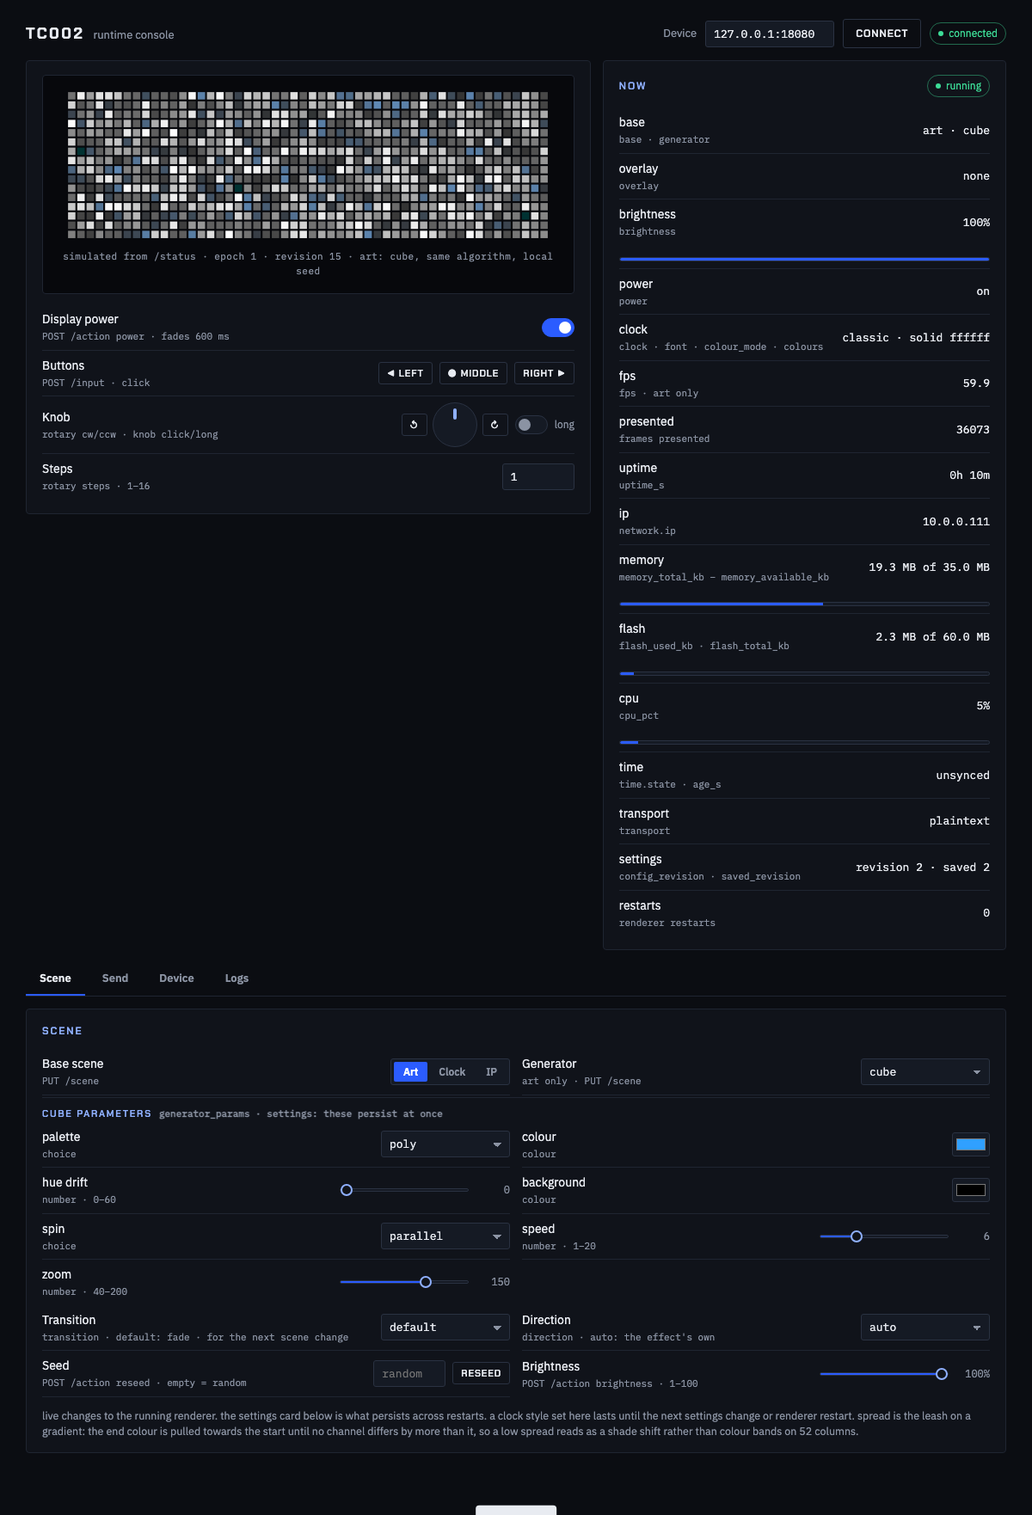
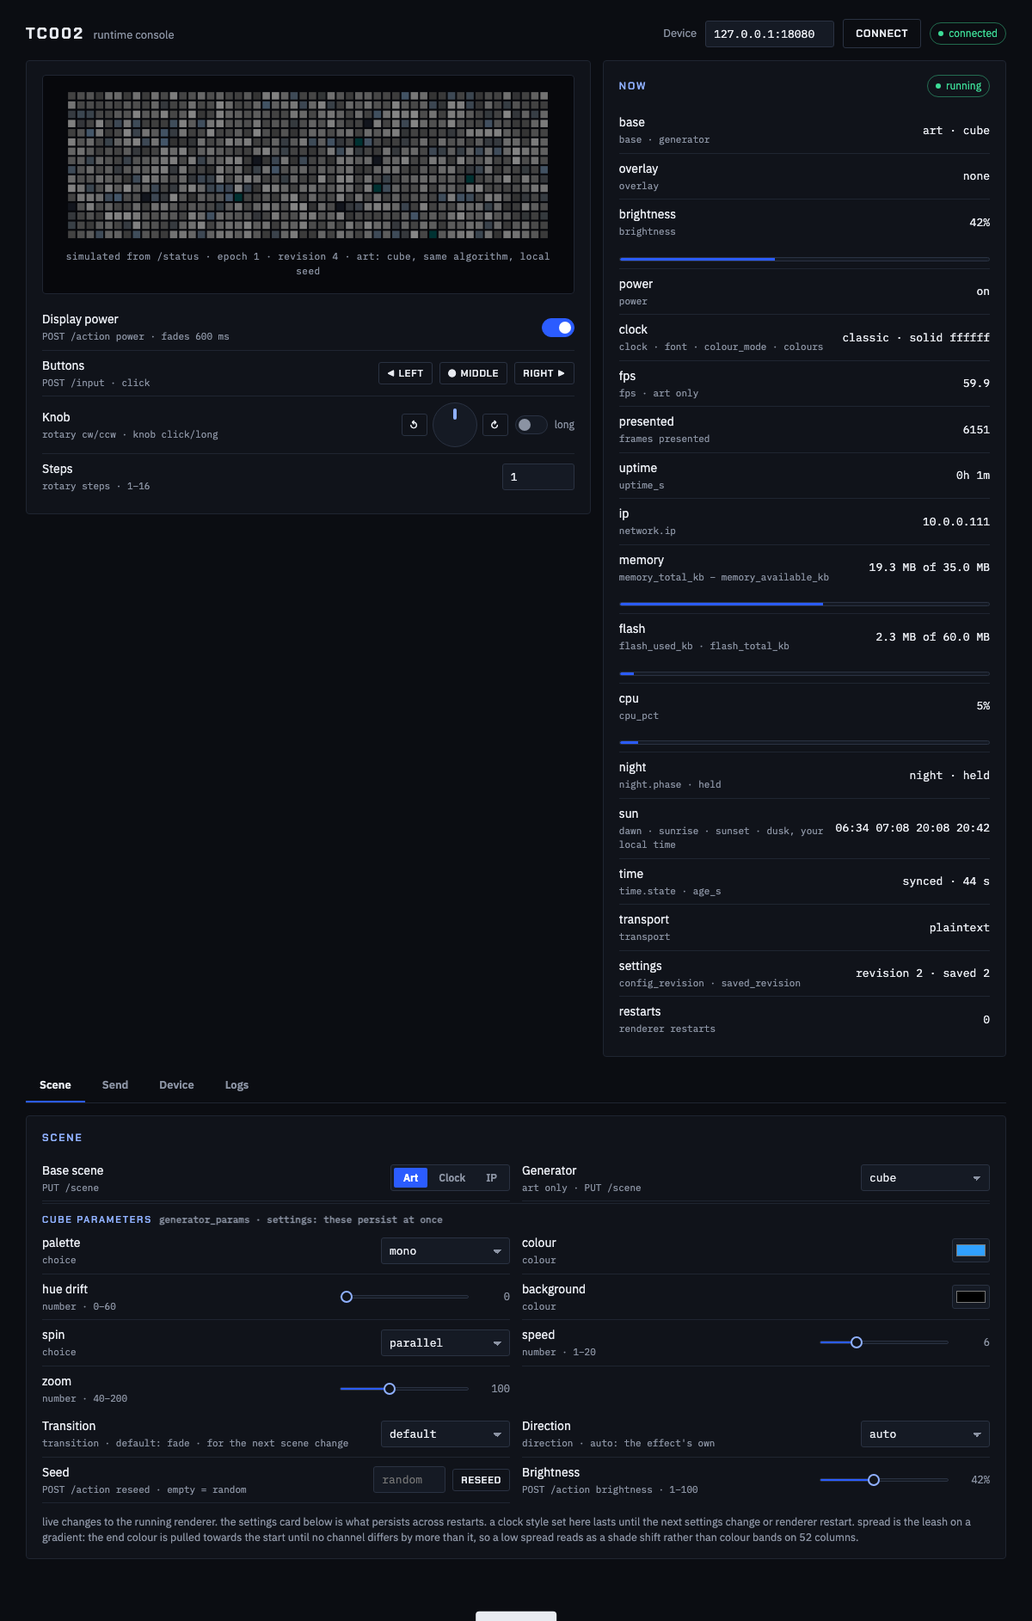
panel-v2: the night brightness schedule and where the device is
the runtime dims the panel in the evening and brightens it in the morning, following the sun where
the device actually is (RUNTIME.md, "the night brightness schedule"). the console shows both halves.

the settings gain the schedule (`night`, `night_brightness` 1–100, `night_lead_min` 0–120) and the
place: a latitude and longitude that pin it, a read-only line for the point they resolve to with
where it came from, and a button that drops the pin through `location_auto` so the timezone's own
reference city is used again. the two coordinates travel together or not at all, and a half-filled
pair is refused here rather than at the device. the timezone hint says a zone name is accepted now.

the readout gains two rows: `night` reads off, or the phase with `· held` when a hand-set brightness
is standing in the schedule's way, and `sun` reads today's four crossings. they are shown in the
browser's timezone, which the row says, because a device set to an iana zone gives the page no
offset to work from.

the mock computes the crossings with the same low-precision sunrise equation rather than faking
them, so the phase it reports moves with the clock and the place. tests: the config carries the
schedule and both locations, a patch refuses the seven ways it can be wrong, and the status reports
a phase, a held flag that a brightness command sets, and four crossings in order.

Claude-Session: https://claude.ai/code/session_0154EZ6adqhZyrJZmuD4WZcY

diff --git a/panel-v2/index.html b/panel-v2/index.html
@@ -179,6 +179,7 @@ input[type=file]{font:12px var(--body);color:var(--muted);max-width:220px}
 /* a full-width card has room for two columns of rows */
 .card.wide .rows{display:grid;grid-template-columns:repeat(2,minmax(0,1fr));gap:0 var(--gap)}
 .card.wide .rows.genparams{grid-column:1/-1}
+.card.wide .field.span2{grid-column:1/-1}
 .genparams .paramhead{grid-column:1/-1}
 .genparams{border-top:1px solid var(--line);margin-top:2px;padding-top:2px}
 .genparams .paramhead{display:flex;align-items:center;gap:8px;padding:9px 0 3px;color:var(--accent-text);
@@ -332,7 +333,14 @@ input[type=file]{font:12px var(--body);color:var(--muted);max-width:220px}
         <div class="field"><label for="cgrad">Gradient direction<span class="key">clock_gradient</span></label><select id="cgrad"></select></div>
         <div class="field"><label for="cdigits">Clock digits<span class="key">clock_digit · block and big faces have a body to style</span></label><select id="cdigits"></select></div>
         <div class="field"><label for="cspread">Clock spread<span class="key">clock_spread · 0–255, the gradient's leash</span></label><input type="number" id="cspread" min="0" max="255" step="15"></div>
-        <div class="field"><label for="ctz">Timezone<span class="key">timezone · posix rule, e.g. AEST-10AEDT,M10.1.0,M4.1.0/3</span></label><input type="text" id="ctz" placeholder="UTC0" spellcheck="false"></div>
+        <div class="field"><label for="ctz">Timezone<span class="key">timezone · a zone name (Europe/Amsterdam) or a posix rule (AEST-10AEDT,M10.1.0,M4.1.0/3)</span></label><input type="text" id="ctz" placeholder="UTC0" spellcheck="false"></div>
+        <div class="field"><label for="cnight">Night dimming<span class="key">night · follows the sun where the device is</span></label><input type="checkbox" class="sw" id="cnight"></div>
+        <div class="field"><label for="cnightb">Night brightness<span class="key">night_brightness · 1–100, the other end of the ramp</span></label><input type="number" id="cnightb" min="1" max="100"></div>
+        <div class="field"><label for="cnightl">Ramp lead<span class="key">night_lead_min · 0–120 minutes before sunset, and after sunrise</span></label><input type="number" id="cnightl" min="0" max="120"></div>
+        <div class="field"><label for="clat">Latitude<span class="key">latitude · −90–90, with a longitude or neither</span></label><input type="number" id="clat" min="-90" max="90" step="0.01" placeholder="auto"></div>
+        <div class="field"><label for="clon">Longitude<span class="key">longitude · −180–180</span></label><input type="number" id="clon" min="-180" max="180" step="0.01" placeholder="auto"></div>
+        <div class="field span2"><span class="lab">Location in use<span class="key">location · read-only, with where it came from</span></span>
+          <span class="inline"><span class="val" id="cloc">—</span><button class="btn ghost sm" id="clocauto">Use the timezone's</button></span></div>
         <div class="field"><label for="cntp">NTP server<span class="key">ntp_server · ipv4, null disables the sntp client</span></label><input type="text" id="cntp" placeholder="none"></div>
         <div class="field"><label for="cntpi">NTP interval<span class="key">ntp_interval_s</span></label>
           <select id="cntpi"><option value="300">300 s</option><option value="600">600 s</option></select></div>
@@ -497,6 +505,18 @@ const NOW_ROWS = [
   }],
   ['cpu', s => s.cpu_pct == null ? '—' : `${s.cpu_pct}%`, 'cpu_pct',
     s => (s.cpu_pct == null ? null : { metric: 'cpu', pct: s.cpu_pct, tone: pressure(s.cpu_pct) })],
+  ['night', s => {
+    const n = s.night;
+    if (!n) return '—';
+    if (!n.enabled) return 'off';
+    return `${n.phase || 'no place'}${n.held ? ' · held' : ''}`;
+  }, 'night.phase · held'],
+  ['sun', s => {
+    const t = s.night && s.night.today;
+    if (!t) return '—';
+    const at = v => (typeof v === 'number' ? new Date(v * 1000).toLocaleTimeString([], { hour: '2-digit', minute: '2-digit' }) : '—');
+    return `${at(t.dawn)} ${at(t.sunrise)} ${at(t.sunset)} ${at(t.dusk)}`;
+  }, 'dawn · sunrise · sunset · dusk, your local time'],
   ['time', s => {
     if (!s.time) return '—';
     const age = typeof s.time.age_s === 'number' ? ` · ${s.time.age_s} s` : '';
@@ -975,6 +995,19 @@ function showConfig(c) {
   $('cbright').value = c.brightness; $('cbase').value = c.base;
   fillSelect($('cgen'), SCENES ? SCENES.generators.map(g => g.name) : S.GENERATORS, c.generator);
   $('ctz').value = c.timezone; $('cntp').value = c.ntp.server || ''; $('cntpi').value = String(c.ntp.interval_s);
+  if (c.night) {
+    $('cnight').checked = !!c.night.enabled;
+    $('cnightb').value = c.night.brightness;
+    $('cnightl').value = c.night.lead_min;
+  }
+  $('clat').value = c.latitude == null ? '' : c.latitude;
+  $('clon').value = c.longitude == null ? '' : c.longitude;
+  // the point the two resolve to: the pin, or the timezone's own reference city
+  const loc = $('cloc');
+  loc.textContent = c.location
+    ? `${(+c.location.latitude).toFixed(2)}, ${(+c.location.longitude).toFixed(2)} · ${c.location.source}`
+    : 'nowhere: the schedule cannot run';
+  $('clocauto').disabled = !c.location || c.location.source !== 'set';
   $('cft').value = c.frame_timeout_ms; $('cmi').value = c.metrics_interval_s;
   $('cdisc').checked = !!c.discovery.enabled; $('cdp').value = c.discovery.prefix;
   const k = c.clock || S.DEFAULT_CLOCK_STYLE;   // a runtime without clock styles: show the defaults, patch nothing
@@ -996,6 +1029,14 @@ function showConfig(c) {
   if (SCENES) renderGenParams();
 }
 async function loadConfig() { showConfig(await call('GET', 'config')); }
+// dropping the pin hands the timezone's reference point back
+$('clocauto').addEventListener('click', async () => {
+  try {
+    showConfig(await call('PATCH', 'config', { location_auto: true }));
+    toast('location: back to the timezone\u2019s');
+    refreshStatus(true);
+  } catch (e) { toast(e.message, true); }
+});
 $('capply').addEventListener('click', async () => {
   if (!CONFIG) return;
   const patch = { expected_revision: CONFIG.revision };
@@ -1004,6 +1045,20 @@ $('capply').addEventListener('click', async () => {
   if ($('cgen').value !== CONFIG.generator) patch.generator = $('cgen').value;
   const tz = $('ctz').value.trim(); if (tz !== CONFIG.timezone) patch.timezone = tz;
   const ntp = $('cntp').value.trim(); if ((ntp || null) !== CONFIG.ntp.server) patch.ntp_server = ntp || null;
+  if (CONFIG.night) {
+    if ($('cnight').checked !== !!CONFIG.night.enabled) patch.night = $('cnight').checked;
+    const nb = +$('cnightb').value; if (nb !== CONFIG.night.brightness) patch.night_brightness = nb;
+    const nl = +$('cnightl').value; if (nl !== CONFIG.night.lead_min) patch.night_lead_min = nl;
+  }
+  // latitude and longitude travel together or not at all, as the device demands
+  const lat = $('clat').value.trim(), lon = $('clon').value.trim();
+  const latNow = CONFIG.latitude == null ? '' : String(CONFIG.latitude);
+  const lonNow = CONFIG.longitude == null ? '' : String(CONFIG.longitude);
+  if (lat !== latNow || lon !== lonNow) {
+    if (lat === '' && lon === '') patch.location_auto = true;
+    else if (lat === '' || lon === '') return toast('a latitude needs a longitude, and the other way round', true);
+    else { patch.latitude = +lat; patch.longitude = +lon; }
+  }
   const ntpi = +$('cntpi').value; if (ntpi !== CONFIG.ntp.interval_s) patch.ntp_interval_s = ntpi;
   const ft = +$('cft').value; if (ft !== CONFIG.frame_timeout_ms) patch.frame_timeout_ms = ft;
   const mi = +$('cmi').value; if (mi !== CONFIG.metrics_interval_s) patch.metrics_interval_s = mi;

diff --git a/panel-v2/mock-device.py b/panel-v2/mock-device.py
@@ -118,6 +118,43 @@ def load_or_create_tokens(path):
     return data[:32].hex(), data[32:].hex()
 
 
+# the timezone's reference point, as tzdata gives one to every iana zone; the mock knows one zone
+# and falls back to it, which is enough to exercise a location whose source is the timezone
+TZ_POINT = (52.37, 4.90)           # europe/amsterdam
+NIGHT_PHASES = ("day", "to_night", "night", "to_day")
+
+
+def solar_day(now, lat, lon):
+    """dawn, sunrise, sunset, dusk as epoch seconds for the day `now` falls in, from the same
+    low-precision sunrise equation the runtime uses (sys/solar.zig). close enough for a stand-in."""
+    import math
+    day = math.floor(now / 86400)
+    n = day - 10957 + 0.0008          # julian day 2451545.0 is epoch day 10957
+    j_star = n - lon / 360.0
+    m = math.radians((357.5291 + 0.98560028 * j_star) % 360)
+    c = 1.9148 * math.sin(m) + 0.02 * math.sin(2 * m) + 0.0003 * math.sin(3 * m)
+    lam = math.radians((math.degrees(m) + c + 180 + 102.9372) % 360)
+    j_transit = 2451545.0 + j_star + 0.0053 * math.sin(m) - 0.0069 * math.sin(2 * lam)
+    decl = math.asin(math.sin(lam) * math.sin(math.radians(23.4397)))
+
+    def crossing(zenith):
+        cos_w = ((math.cos(math.radians(zenith)) - math.sin(math.radians(lat)) * math.sin(decl))
+                 / (math.cos(math.radians(lat)) * math.cos(decl)))
+        if cos_w > 1 or cos_w < -1:
+            return None                # the sun never reaches that angle here today
+        w = math.degrees(math.acos(cos_w)) / 360.0
+        rise = (j_transit - w - 2440587.5) * 86400
+        set_ = (j_transit + w - 2440587.5) * 86400
+        return int(rise), int(set_)
+
+    day_pair = crossing(90.833)        # the sun's radius and refraction
+    civil_pair = crossing(96.0)
+    sunrise, sunset = day_pair if day_pair else (None, None)
+    dawn, dusk = civil_pair if civil_pair else (None, None)
+    sun_up = bool(sunrise and sunset and sunrise <= now < sunset)
+    return {"dawn": dawn, "sunrise": sunrise, "sunset": sunset, "dusk": dusk, "sun_up": sun_up}
+
+
 def parse_ipv4(s):
     parts = s.split(".")
     if len(parts) != 4 or not all(p.isdigit() and 0 < len(p) <= 3 and int(p) <= 255 for p in parts):
@@ -247,11 +284,15 @@ class Device:
                        "timezone": "UTC0", "ntp_server": None, "ntp_interval_s": 300, "frame_timeout_ms": 500,
                        "metrics_interval_s": 30, "discovery": False, "discovery_prefix": "homeassistant", "origins": [],
                        "clock": dict(DEFAULT_CLOCK), "ip_mode": "lines",
+                       "night": False, "night_brightness": 5, "night_lead_min": 30,
+                       "latitude": None, "longitude": None,
                        "generators": {g: {p["name"]: param_default(p) for p in table}
                                       for g, table in GENERATOR_PARAMS.items()}}
         self.mqtt = {"enabled": False, "host": "", "port": 1883, "username": "", "password": "", "client_id": "", "prefix": "", "tls": False}
         self.ntfy = {"enabled": False, "url": "", "topic": "", "token": "", "username": "", "password": "", "duration_s": 10, "insecure": False, "ca": ""}
         self.ntfy_messages = 0
+        # a hand-set brightness stands in the schedule's way until the next ramp begins
+        self.night_held = False
         # the device persists every accepted settings write before replying; off simulates that
         # write failing, which is the only way revision and saved_revision can drift apart
         self.persist = True
@@ -318,7 +359,8 @@ class Device:
                 "tmpfs_used_kb": 1024, "tmpfs_total_kb": 17920,
                 "flash_used_kb": 2304, "flash_total_kb": 61440,
                 "cpu_pct": 5, "restarts": self.restarts,
-                "network": {"ip": "10.0.0.111"}, "time": {"state": "unsynced", "age_s": None},
+                "network": {"ip": "10.0.0.111"}, "time": {"state": "synced", "age_s": 44},
+                "night": self.night_status(),
                 "config_revision": self.config["revision"], "saved_revision": self.config["saved_revision"],
                 "transport": "plaintext", "mqtt": self.mqtt_status(), "ntfy": self.ntfy_doc()["status"],
                 "boot_id": self.boot_id, "sample_age_ms": 200}
@@ -328,6 +370,33 @@ class Device:
         next_seq = lines[-1]["seq"] if lines else after
         return {"next": next_seq, "lines": lines}
 
+    def point(self):
+        """where the device is: the pinned pair, else the timezone's reference point."""
+        c = self.config
+        if c["latitude"] is not None and c["longitude"] is not None:
+            return c["latitude"], c["longitude"], "set"
+        return TZ_POINT[0], TZ_POINT[1], "timezone"
+
+    def night_status(self):
+        """what the schedule is doing, and the crossings it works from."""
+        c = self.config
+        lat, lon, _ = self.point()
+        if not c["night"]:
+            return {"enabled": False, "phase": None, "held": self.night_held, "today": None}
+        now = time.time()
+        today = solar_day(now, lat, lon)
+        phase = "day"
+        lead = c["night_lead_min"] * 60
+        if today["sunset"] and today["dusk"] and today["sunset"] - lead <= now < today["dusk"]:
+            phase = "to_night"
+        elif today["dawn"] and today["sunrise"] and today["dawn"] <= now < today["sunrise"] + lead:
+            phase = "to_day"
+        elif today["dusk"] and now >= today["dusk"]:
+            phase = "night"
+        elif today["dawn"] and now < today["dawn"]:
+            phase = "night"
+        return {"enabled": True, "phase": phase, "held": self.night_held, "today": today}
+
     def config_doc(self):
         c = self.config
         return {"revision": c["revision"], "saved_revision": c["saved_revision"], "brightness": c["brightness"],
@@ -335,6 +404,9 @@ class Device:
                 "ntp": {"server": c["ntp_server"], "interval_s": c["ntp_interval_s"]},
                 "frame_timeout_ms": c["frame_timeout_ms"], "metrics_interval_s": c["metrics_interval_s"],
                 "discovery": {"enabled": c["discovery"], "prefix": c["discovery_prefix"]}, "clock": dict(c["clock"]),
+                "night": {"enabled": c["night"], "brightness": c["night_brightness"], "lead_min": c["night_lead_min"]},
+                "latitude": c["latitude"], "longitude": c["longitude"],
+                "location": {"latitude": self.point()[0], "longitude": self.point()[1], "source": self.point()[2]},
                 "generators": {g: dict(v) for g, v in c["generators"].items()},
                 "ip_mode": c["ip_mode"],
                 "allowed_origins": list(c["origins"])}
@@ -438,6 +510,7 @@ class Device:
             if not isinstance(v, int) or v < 1 or v > 100:
                 raise Reject(400, "invalid_brightness", "brightness must be 1..100")
             self.brightness = v
+            self.night_held = True     # a hand-set brightness holds the schedule until the next ramp
             self.log(f"brightness: {v}")
             return self.bump()
         if kind == "reseed":
@@ -583,6 +656,31 @@ class Device:
             for scene_name, name, value in resolved:
                 gens[scene_name][name] = value
             nxt["generators"] = gens
+        if "night" in body:
+            if not isinstance(body["night"], bool):
+                raise Reject(400, "invalid_json", "the body is not valid json for this schema")
+            nxt["night"] = body["night"]
+        if "night_brightness" in body:
+            v = body["night_brightness"]
+            if not isinstance(v, int) or isinstance(v, bool) or not 1 <= v <= 100:
+                raise Reject(400, "invalid_night_brightness", "night_brightness must be 1..100")
+            nxt["night_brightness"] = v
+        if "night_lead_min" in body:
+            v = body["night_lead_min"]
+            if not isinstance(v, int) or isinstance(v, bool) or not 0 <= v <= 120:
+                raise Reject(400, "invalid_night_lead", "night_lead_min must be 0..120")
+            nxt["night_lead_min"] = v
+        if "latitude" in body or "longitude" in body:
+            lat, lon = body.get("latitude"), body.get("longitude")
+            if lat is None or lon is None:
+                raise Reject(400, "invalid_location", "latitude and longitude go together")
+            if not isinstance(lat, (int, float)) or not -90 <= lat <= 90:
+                raise Reject(400, "invalid_latitude", "latitude must be -90..90")
+            if not isinstance(lon, (int, float)) or not -180 <= lon <= 180:
+                raise Reject(400, "invalid_longitude", "longitude must be -180..180")
+            nxt["latitude"], nxt["longitude"] = float(lat), float(lon)
+        if body.get("location_auto"):
+            nxt["latitude"], nxt["longitude"] = None, None
         clock_keys = {k: v for k, v in body.items() if k.startswith("clock_")}
         if clock_keys:
             # the settings call it clock_digit, the scene block calls it digits
@@ -596,6 +694,9 @@ class Device:
             self.brightness = nxt["brightness"]; self.bump()
         if nxt["base"] != c["base"] or nxt["generator"] != c["generator"]:
             self.base, self.generator, self.overlay = nxt["base"], nxt["generator"], "none"; self.bump()
+        if nxt["night"] != c["night"]:
+            # switching the schedule hands brightness back, so nothing is standing in its way
+            self.night_held = False
         if nxt["clock"] != c["clock"]:
             # the supervisor sends the whole durable style, so a transient scene block is replaced
             self.clock = dict(nxt["clock"]); self.bump()
@@ -647,7 +748,8 @@ SCHEMAS = {
     "config": ({"brightness", "base", "generator", "timezone", "ntp_server", "ntp_interval_s", "frame_timeout_ms",
                 "metrics_interval_s", "discovery", "discovery_prefix", "expected_revision",
                 "clock_font", "clock_colour_mode", "clock_colour", "clock_colour2", "clock_gradient", "clock_spread",
-                "clock_digit", "ip_mode", "generator_params"}, set()),
+                "clock_digit", "ip_mode", "generator_params",
+                "night", "night_brightness", "night_lead_min", "latitude", "longitude", "location_auto"}, set()),
     "config/save": ({"revision"}, set()),
     "mock/persist": ({"enabled"}, {"enabled"}),
     "mqtt": ({"enabled", "host", "port", "username", "password", "client_id", "prefix", "tls"}, set()),

diff --git a/panel-v2/test_serve.py b/panel-v2/test_serve.py
@@ -451,6 +451,63 @@ class EndToEndTests(unittest.TestCase):
         self.assertEqual(cube["spin"], "single")
         self.assertEqual(cube["hue drift"], 30)
 
+    def test_config_carries_the_night_schedule_and_where_the_device_is(self):
+        _, cfg = self.call("GET", "config")
+        self.assertEqual(cfg["night"], {"enabled": False, "brightness": 5, "lead_min": 30})
+        self.assertIsNone(cfg["latitude"])
+        self.assertIsNone(cfg["longitude"])
+        # with no pin the location comes from the timezone, and says so
+        self.assertEqual(cfg["location"]["source"], "timezone")
+        status, doc = self.call("PATCH", "config", {"night": True, "night_brightness": 8, "night_lead_min": 45,
+                                                    "latitude": -33.87, "longitude": 151.215})
+        self.assertEqual(status, 200)
+        self.assertEqual(doc["night"], {"enabled": True, "brightness": 8, "lead_min": 45})
+        self.assertAlmostEqual(doc["latitude"], -33.87, places=2)
+        self.assertEqual(doc["location"]["source"], "set")
+        self.assertAlmostEqual(doc["location"]["longitude"], 151.215, places=2)
+        # location_auto drops the pin and hands the timezone's point back
+        status, doc = self.call("PATCH", "config", {"location_auto": True})
+        self.assertEqual(status, 200)
+        self.assertIsNone(doc["latitude"])
+        self.assertEqual(doc["location"]["source"], "timezone")
+        self.call("PATCH", "config", {"night": False, "night_brightness": 5, "night_lead_min": 30})
+
+    def test_the_night_schedule_refuses_what_it_cannot_use(self):
+        for body, code in (({"night_brightness": 0}, "invalid_night_brightness"),
+                           ({"night_brightness": 101}, "invalid_night_brightness"),
+                           ({"night_lead_min": 121}, "invalid_night_lead"),
+                           ({"latitude": 10}, "invalid_location"),
+                           ({"longitude": 10}, "invalid_location"),
+                           ({"latitude": 91, "longitude": 0}, "invalid_latitude"),
+                           ({"latitude": 0, "longitude": 181}, "invalid_longitude")):
+            status, doc = self.call("PATCH", "config", body)
+            self.assertEqual((status, doc["error"]), (400, code), body)
+
+    def test_status_reports_the_phase_and_the_sun_s_own_day(self):
+        self.call("PATCH", "config", {"night": True, "latitude": 52.37, "longitude": 4.90})
+        try:
+            _, st = self.call("GET", "status")
+            self.assertEqual(st["night"]["enabled"], True)
+            self.assertIn(st["night"]["phase"], ("day", "to_night", "night", "to_day"))
+            self.assertIs(st["night"]["held"], False)
+            today = st["night"]["today"]
+            self.assertIn(today["sun_up"], (True, False))
+            crossings = [today[k] for k in ("dawn", "sunrise", "sunset", "dusk")]
+            self.assertEqual(crossings, sorted(crossings), "the day runs dawn, sunrise, sunset, dusk")
+            for t in crossings:
+                self.assertGreater(t, 1_700_000_000)
+            # a hand-set brightness stands in the schedule's way until the next ramp
+            _, st2 = self.call("GET", "status")
+            self.call("POST", "action", {"action": "brightness", "brightness": 42,
+                                         "request_id": "9a1", "epoch": st2["epoch"]})
+            _, st3 = self.call("GET", "status")
+            self.assertIs(st3["night"]["held"], True)
+        finally:
+            self.call("PATCH", "config", {"night": False, "location_auto": True})
+        _, off = self.call("GET", "status")
+        self.assertEqual(off["night"]["enabled"], False)
+        self.assertIsNone(off["night"]["phase"])
+
     def test_logs_page_through_the_ring(self):
         status, doc = self.call("GET", "logs?after=0")
         self.assertEqual(status, 200)

diff --git a/README.md b/README.md
@@ -137,7 +137,8 @@ developing without a device.
 
 ![the panel-v2 console: the preview, the remote controls and the readings with bars for brightness, memory, flash and cpu, above the scene tab showing the cube generator's own parameters](panel-v2/screenshots/console.png)
 
-the device tab holds the durable settings, the broker and ntfy:
+the device tab holds the durable settings, the night dimming schedule with
+the place it follows the sun from, the broker and ntfy:
 
 ![the device tab: settings, mqtt and ntfy, each with its apply button and the settings revision](panel-v2/screenshots/console-device.png)
 
